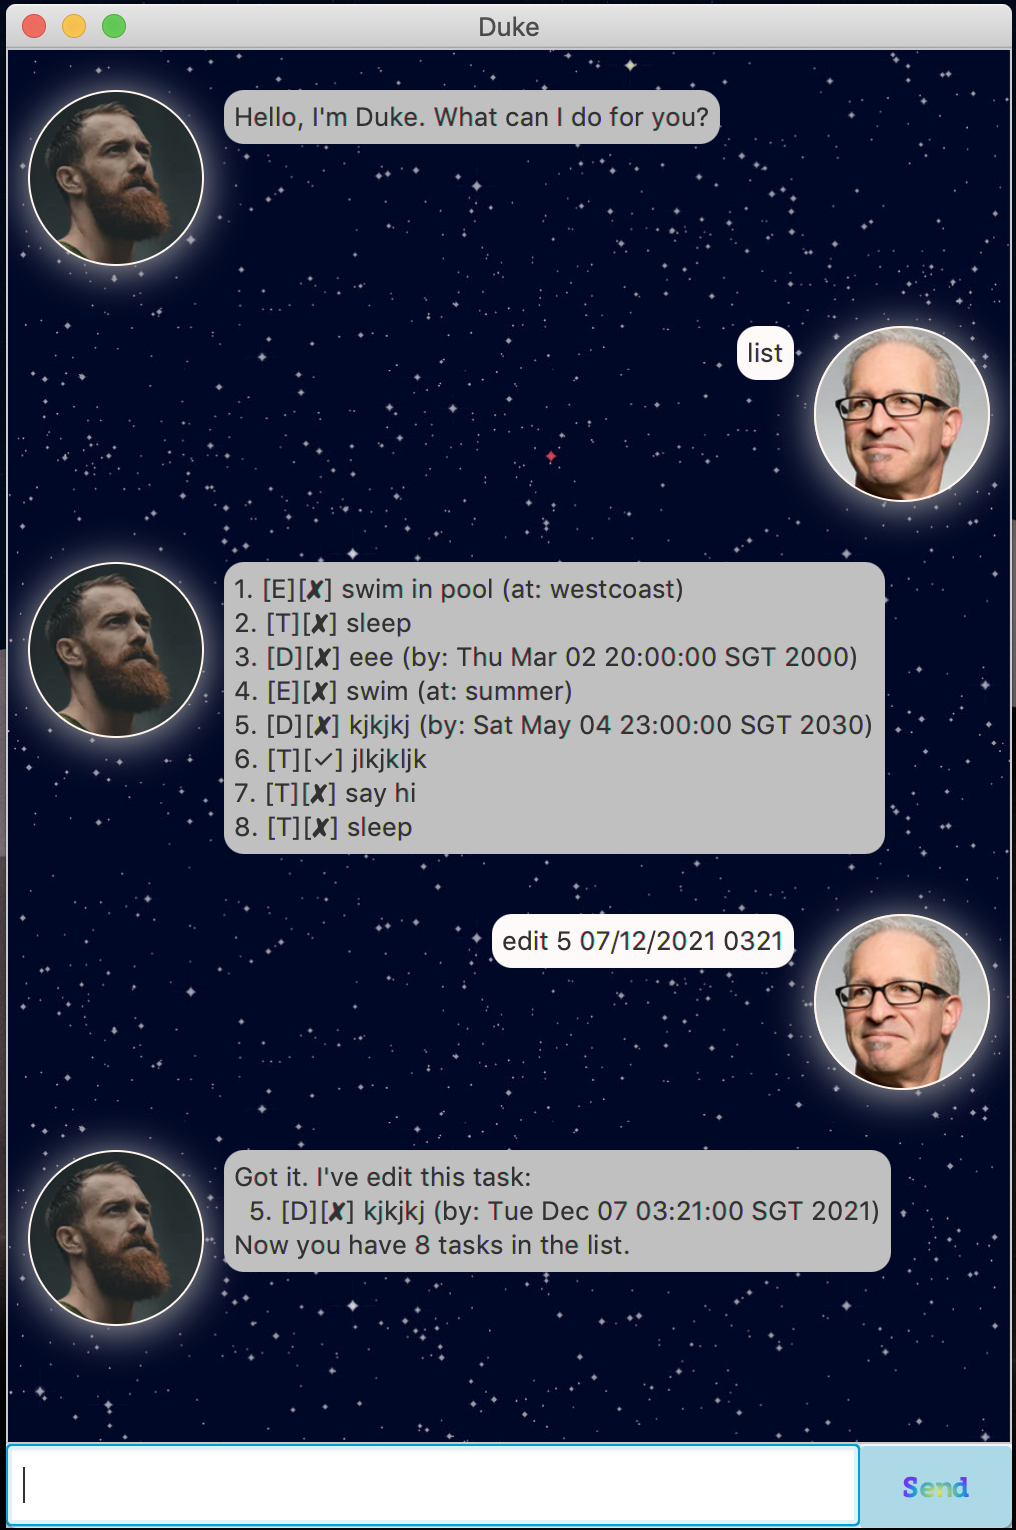
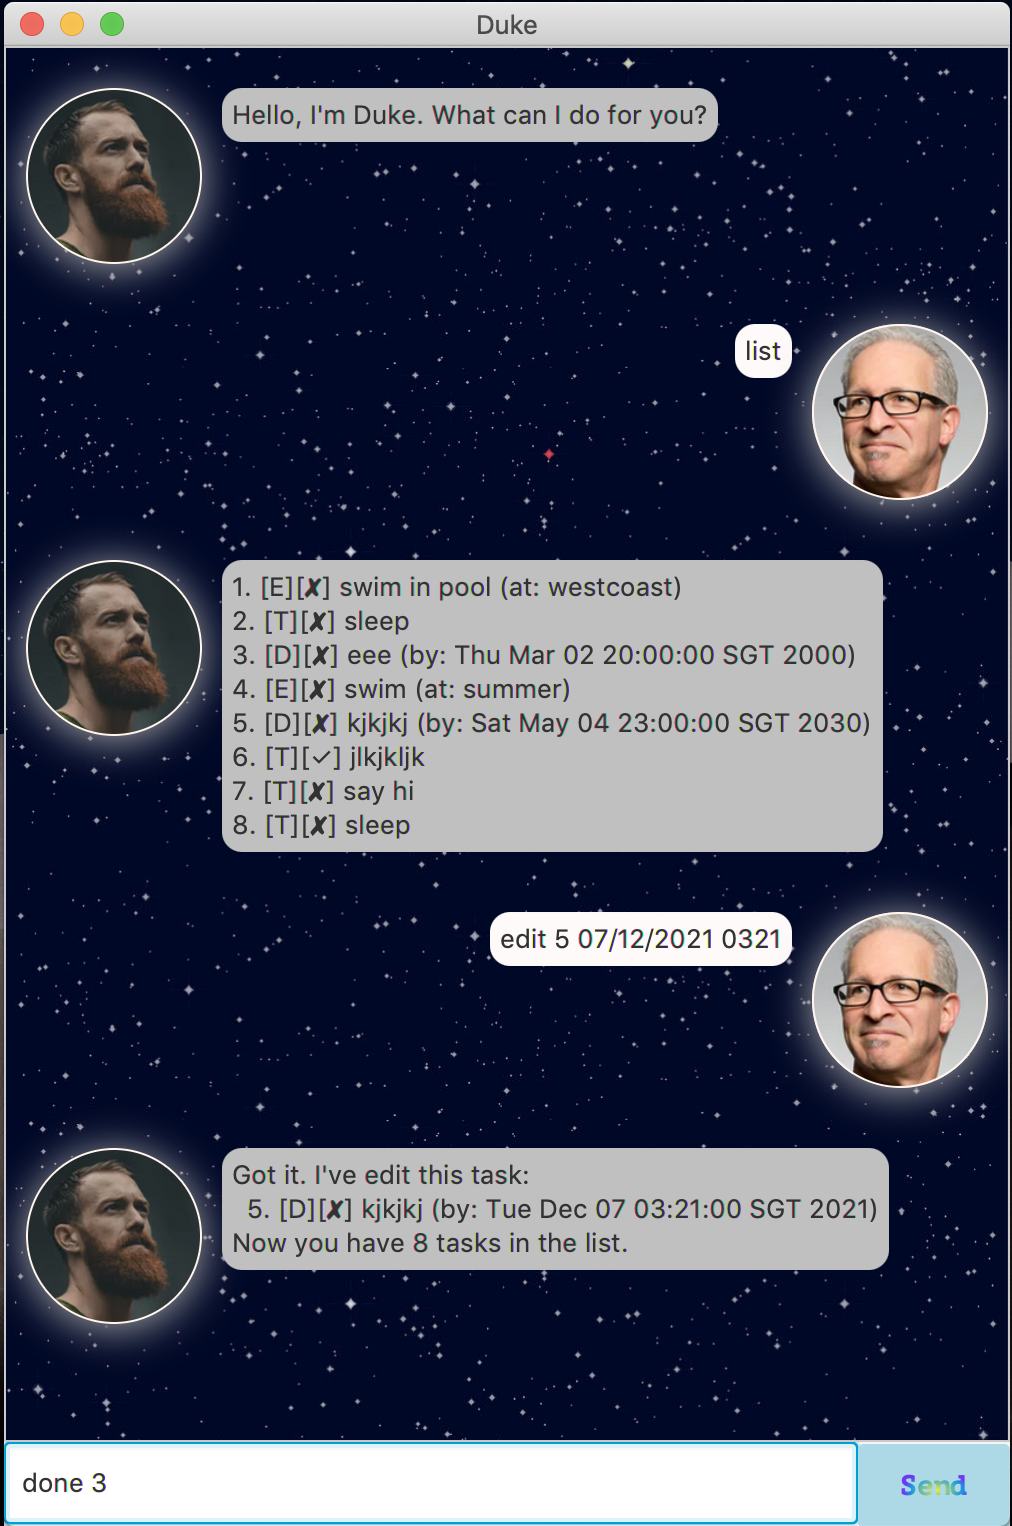
fix bugs and add user guide

diff --git a/src/main/java/duke/parser/Parser.java b/src/main/java/duke/parser/Parser.java
@@ -29,12 +29,16 @@ public class Parser {
         } else if (fullCommand.equals("list")) {
             return new ListCommand();
         } else if (fullCommand.startsWith("done")) {
-            char num = fullCommand.charAt(fullCommand.length() - 1);
-            int index = Character.getNumericValue(num);
+            //char num = fullCommand.charAt(fullCommand.length() - 1);
+            String[] command = fullCommand.split(" ");
+            String num = command[1];
+            int index = Integer.valueOf(num);
             return  new DoneCommand(index);
         } else if (fullCommand.startsWith("delete")) {
-            char num = fullCommand.charAt(fullCommand.length() - 1);
-            int index = Character.getNumericValue(num);
+            //char num = fullCommand.charAt(fullCommand.length() - 1);
+            String[] command = fullCommand.split(" ");
+            String num = command[1];
+            int index = Integer.valueOf(num);
             return new DeleteCommand(index);
         } else if (fullCommand.startsWith("todo")) {
             Task task = createTask(fullCommand);
@@ -52,9 +56,16 @@ public class Parser {
             if (fullCommand.length() < 8) {
                 throw new DukeException("Wrong edit command.");
             }
-            char num = fullCommand.charAt(5);
-            int index = Character.getNumericValue(num);
-            String newTimeString = fullCommand.substring(7);
+            String[] command = fullCommand.split(" ");
+            String num = command[1];
+            int index = Integer.valueOf(num);
+            String newTimeString = command[2];
+            if (command.length < 4) {
+                throw new DukeException("Wrong edit command.");
+            }
+            for (int i = 3; i < command.length; i++) {
+                newTimeString += (" " + command[i]);
+            }
             Date newTime = stringToDate(newTimeString);
             return new EditCommand(index, newTime);
         } else {

diff --git a/src/main/java/duke/main/MainWindow.java b/src/main/java/duke/main/MainWindow.java
@@ -1,11 +1,14 @@
 package duke.main;
 
+import javafx.animation.PauseTransition;
+import javafx.application.Platform;
 import javafx.fxml.FXML;
 import javafx.scene.control.Button;
 import javafx.scene.control.ScrollPane;
 import javafx.scene.control.TextField;
 import javafx.scene.image.Image;
 import javafx.scene.layout.*;
+import javafx.util.Duration;
 
 /**
  * Controller for MainWindow. Provides the layout for the other controls.
@@ -63,6 +66,11 @@ public class MainWindow extends AnchorPane {
                 DialogBox.getUserDialog(input, userImage),
                 DialogBox.getDukeDialog(response, dukeImage)
         );
+        if (input.equals("bye")) {
+            PauseTransition delay = new PauseTransition(Duration.seconds(3));
+            delay.setOnFinished( event -> Platform.exit());
+            delay.play();
+        }
         userInput.clear();
     }
 }

diff --git a/docs/README.md b/docs/README.md
@@ -1,20 +1,187 @@
-# User Guide
+# Duke User Guide
 
-## Features 
+## 1. Introduction
+Duke is an application that can help you to record your tasks to do and
+and track whether these tasks are finished. 
 
-### Feature 1 
-Description of feature.
+## 2. Definition of Different Task
+There are three types of task that can be recorded in Duke.
+  1. **Todo** : Anything that you can do without any specification.
+  2. **Event** : A Task that you can do with specification of venue.
+  3. **Deadline** : A Task that you can do with with specification of time,
+  in the format of `dd/MM/YYYY HHmm`. You can also edit the time if there is any update.
+  
+## 3. Features 
 
-## Usage
+### 3.1. Add Task
+  Add any task that haven't done to Duke. 
+### 3.2. Delete Task
+  Delete the task that is in Duke.
+### 3.3. Mark Task as Done
+  Mark any undone task in Duke to be done.
+### 3.4. Edit Deadline
+  Edit the time of Deadline.
+### 3.5. Find Tasks with Certain Keyword
+  Use keyword to search for tasks in Duke that contain the same word.
+### 3.6. List all Task in Duke
+  View all the existing tasks in Duke in a list order.
+### 3.7. Terminate Duke
+  Stop Duke from running and terminate it.
 
-### `Keyword` - Describe action
+## 4. Usage
 
-Describe action and its outcome.
+### 4.1 `todo` - Add todo task to Duke
+
+format : `todo DESCRIPTION`
+
+Add todo task to Duke, and Duke will show the information of the succeed todo.
 
 Example of usage: 
 
-`keyword (optional arguments)`
+`todo sleep`
 
 Expected outcome:
 
-`outcome`
+`Got it. I've added this task:`
+
+`[T][✘] sleep`
+  
+`Now you have NUMBER tasks in the list.` 
+
+### 4.2 `event` - Add event task to Duke
+
+format : `event DESCRIPTION /at PLACE`
+
+Add event task to Duke, and Duke will show the information of the succeed todo.
+
+Example of usage: 
+
+`event sleep /at home`
+
+Expected outcome:
+
+`Got it. I've added this task:`
+
+`[E][✘] sleep(at: home)`
+  
+`Now you have NUMBER tasks in the list.` 
+
+### 4.3 `deadline` - Add deadline task to Duke
+
+format : `deadline DESCRIPTION /by dd/MM/YYYY HHmm`
+
+Add deadline task to Duke, and Duke will show the information of the succeed todo.
+
+Example of usage: 
+
+`deadline sleep /by 06/09/2019 2200`
+
+Expected outcome:
+
+`Got it. I've added this task:`
+
+`[D][✘] sleep(by: WEEKDAY MONTH DATE HH:mm:ss TIMEZONE YEAR)`
+  
+`Now you have NUMBER tasks in the list.` 
+
+### 4.4 `delete` - Delete an Existing Task in Duke
+
+format : `delete INDEX`
+
+Delete a task in the list.
+
+Example of usage: 
+
+`delete 4`
+
+Expected outcome:
+
+`Noted. I have removed this task:`
+
+`TASK DESCRIPTION`
+  
+`Now you have NUMBER tasks in the list.`
+
+### 4.5 `done` - Mark an Existing Task as Done
+
+format : `done INDEX`
+
+Mark a task as done in the list.
+
+Example of usage: 
+
+`done 4`
+
+Expected outcome:
+
+`Nice! I have marked this task as done:`
+
+`TASK DESCRIPTION`
+
+### 4.6 `edit` - Edit the Time of a Deadline Task in Duke
+
+format : `edit INDEX dd/MM/YYYY HHmm`
+
+Update the time of a deadline task in the list.
+
+Example of usage: 
+
+`edit 10 02/10/2023 1800`
+
+Expected outcome:
+
+`Got it. I have edited this task:`
+
+`TASK DESCRIPTION`
+  
+`Now you have NUMBER tasks in the list.`
+
+### 4.7 `find` - Find All Task that Contains Keyword
+
+format : `find KEYWORD`
+
+Find all the tasks that contains the keyword in Duke.
+
+Example of usage: 
+
+`find sleep`
+
+Expected outcome:
+
+`Here are the matching tasks in your list:`
+
+And list all the matching tasks in this format:
+
+`INDEX. TASK DESCRIPTION`
+
+### 4.8 `list` - List All the Tasks in Duke
+
+format : `list`
+
+List all the tasks in Duke.
+
+Example of usage: 
+
+`list`
+
+Expected outcome:
+
+List all the matching tasks in this format:
+
+`INDEX. TASK DESCRIPTION`
+
+### 4.8 `bye` - Terminate Duke
+
+format : `bye`
+
+Terminate Duke and close window after 3 second.
+
+Example of usage: 
+
+`bye`
+
+Expected outcome:
+
+`Bye. Hope to see you again soon!`
+
+And close the window after 3 seconds.
